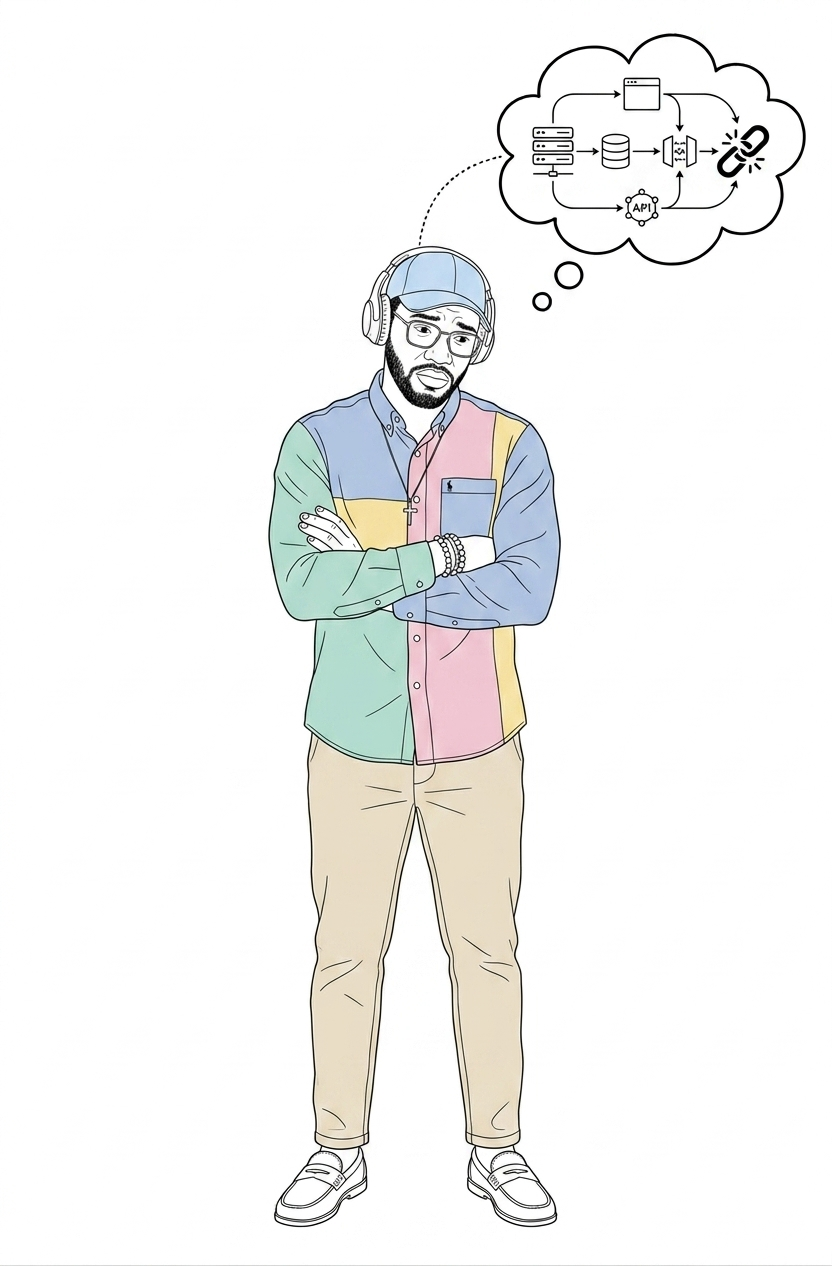
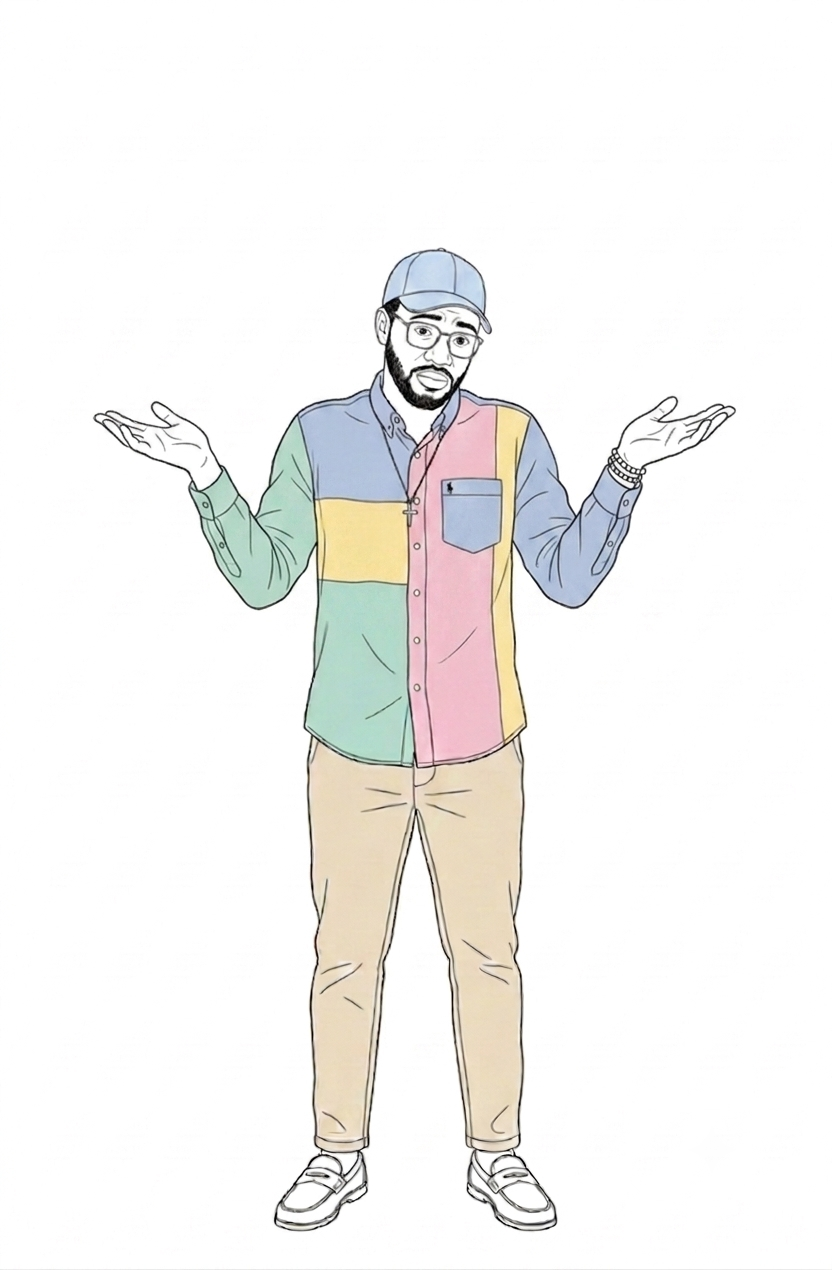
feat: add assests for the contact form

diff --git a/myportfolio/templates/404.html b/myportfolio/templates/404.html
@@ -4,7 +4,7 @@
 <head>
   <meta charset="UTF-8">
   <meta name="viewport" content="width=device-width, initial-scale=1.0">
-  <title>404 — EgbeMichel</title>
+  <title>404@Egbemichel</title>
   <link rel="shortcut icon" href="{% static 'images/favicon.ico' %}" type="image/x-icon">
   <link href="https://fonts.googleapis.com/css2?family=DM+Sans:wght@400;500;700&display=swap" rel="stylesheet">
   <link rel="stylesheet" href="{% static 'dist/css/main.css' %}">
@@ -28,7 +28,7 @@
       margin-top: 1.5rem;
       text-align: right;
       padding-right: 1.5rem; /* ← adjust right alignment here */
-      font-size: 1rem;
+      font-size: 4rem;
       line-height: 1.6;
       color: #333;
     }
@@ -47,12 +47,12 @@
 </head>
 <body>
   <div class="lost-wrap">
-    <img src="{% static 'images/404.png' %}" alt="Me looking confused">
-    <p class="font-hagia text-3xl" >
-      Huh. Even I don't know where this page went.<br>
-      And I built the thing.
+    <img src="{% static 'images/404.png' %}" alt="Egbe Michel with arms out miming I don't know gesture">
+    <p class="font-hagia" >
+      > Huh. How did you get here?.<br>
+      > That's a little too much adventure don&rsquo;t you think?
     </p>
-    <a href="/">← take me somewhere that exists</a>
+    <a href="/"> > take me somewhere that exists</a>
   </div>
 </body>
 </html>

diff --git a/myportfolio/templates/base.html b/myportfolio/templates/base.html
@@ -4,7 +4,7 @@
 <head>
   <meta charset="UTF-8">
   <meta name="viewport" content="width=device-width, initial-scale=1.0">
-  <title>{% block title %}EgbeMichel — molio{% endblock %}</title>
+  <title>{% block title %}@Egbemichel{% endblock %}</title>
 
   <link rel="preconnect" href="https://fonts.googleapis.com">
   <link rel="shortcut icon" href="{% static 'images/favicon.ico' %}" type="image/x-icon">
@@ -55,10 +55,10 @@
 
   <!-- Mobile Block Screen -->
   <div class="mobile-block">
-    <img src="{% static 'images/me_working.png' %}" alt="Egbe Michel working at a desk">
+    <img src="{% static 'images/me_working.png' %}" alt="Egbe Michel sitting cross-legged, working on a laptop">
     <p class="font-hagia">
-      Caught me still squeezing pixels into a tiny screen.<br>
-      Check back soon — or grab a laptop.
+      > Caught me still squeezing pixels into a tiny screen.<br>
+      > Check back soon or grab a laptop.
     </p>
   </div>
 
